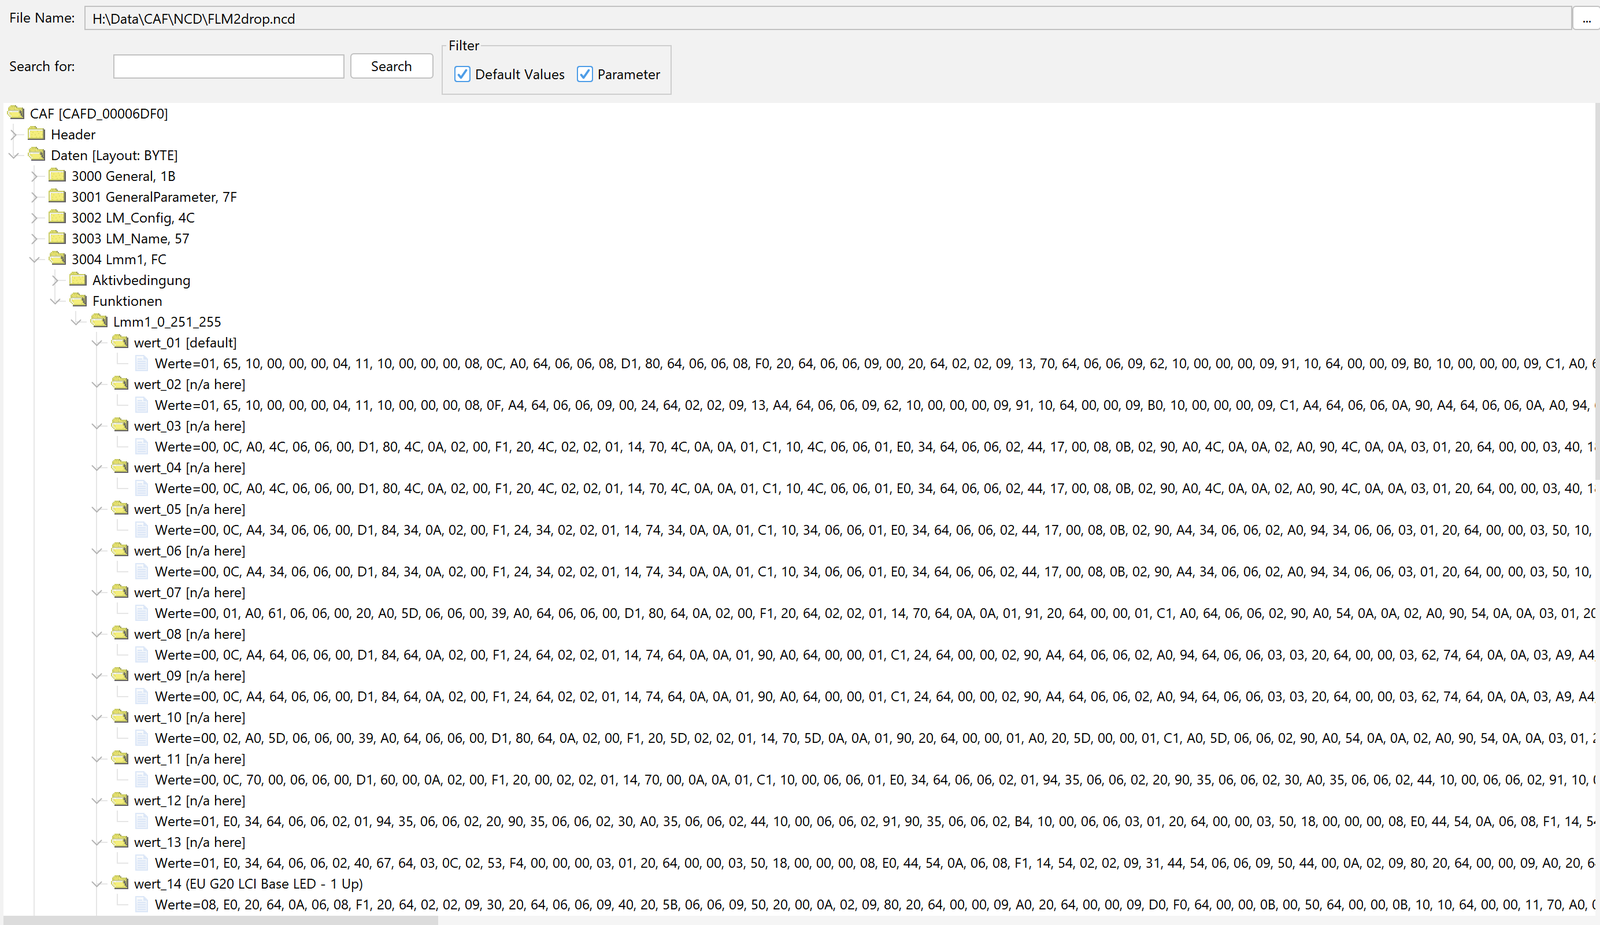
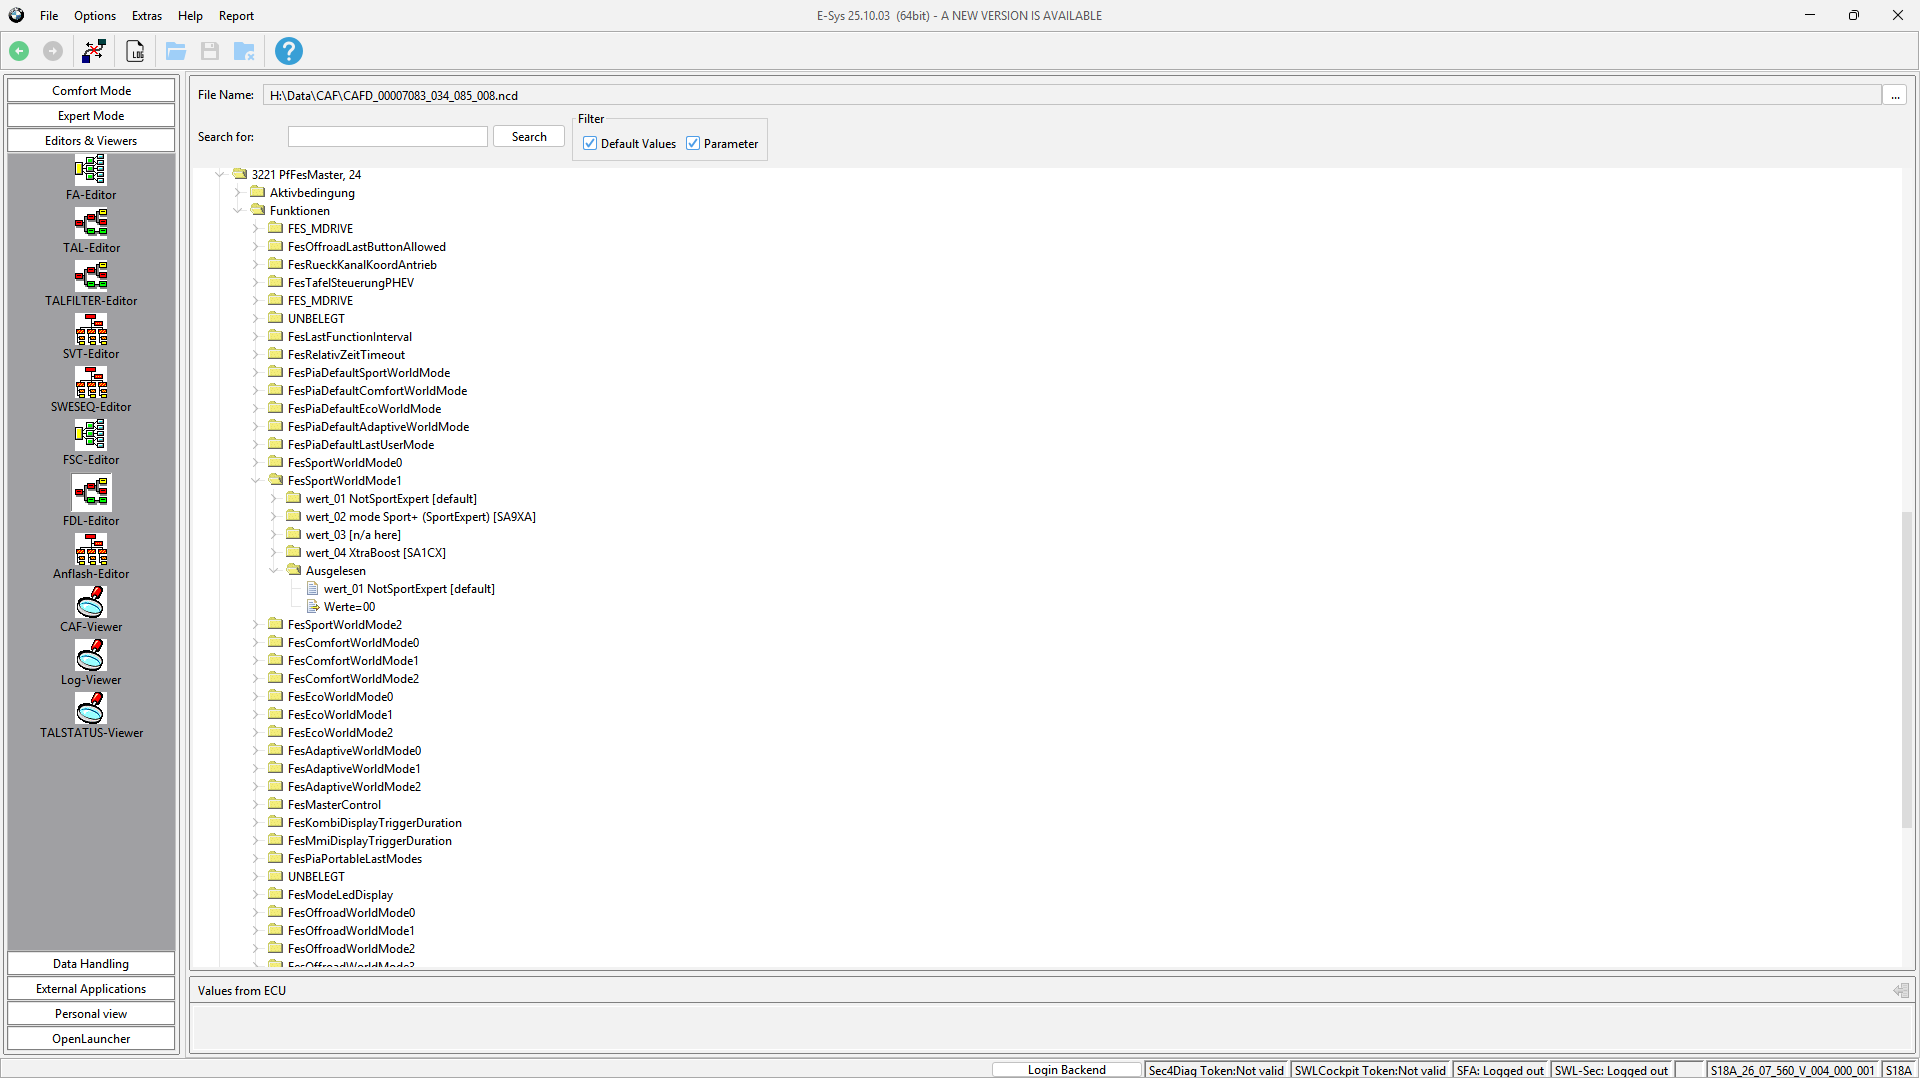
Names and labels: new before / after screenshots (BDC, CAFD 00007083)

diff --git a/content/e-sys/names-and-labels/index.md b/content/e-sys/names-and-labels/index.md
@@ -3,7 +3,7 @@ title = "Names and labels"
 weight = 1
 +++
 
-The same FLM2 NCD (CAFD 00006DF0) in E-Sys's FDL-Editor, first in stock E-Sys, then in E-Sys started from
+The same BDC NCD (CAFD 00007083) in E-Sys's FDL-Editor, first in stock E-Sys, then in E-Sys started from
 OpenLauncher:
 
 ![Stock E-Sys: every group, function and value is "."](before.png)
